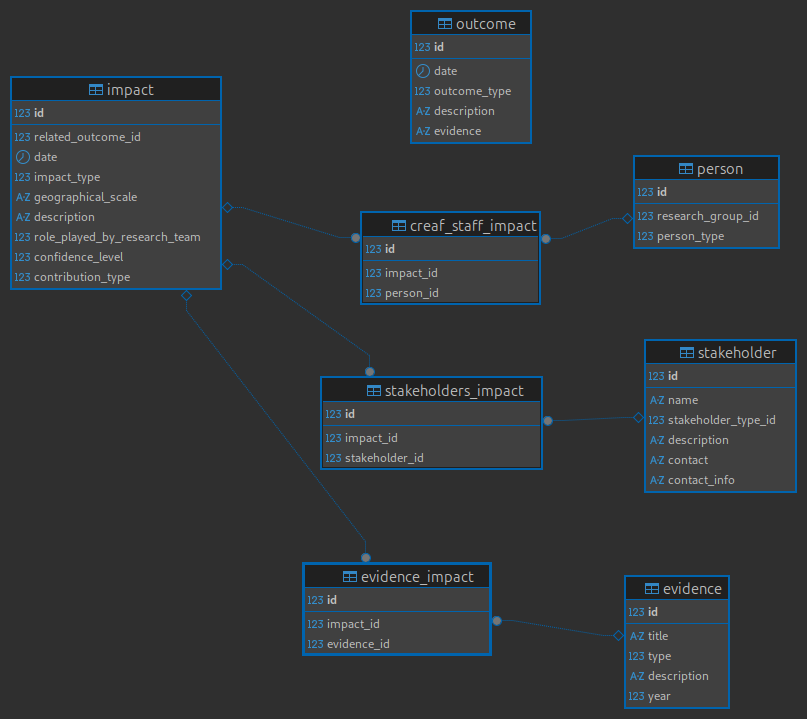
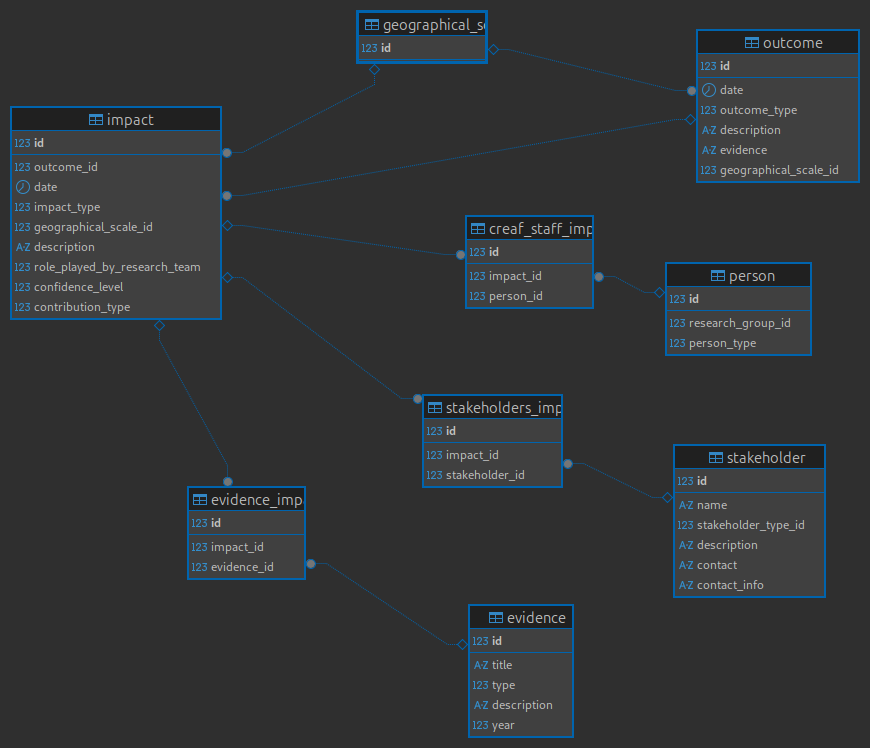
added geographical scale, fixed missing relationship

diff --git a/README.md b/README.md
@@ -149,12 +149,17 @@ ACTIVITY_OUTPUT{
     int output_id
 }
 
+GEOGRAPHICAL_SCALE{
+    int id
+}
+
 OUTCOME{
     int id    
     date date
     int outcome_type
     string description
     string evidence
+    int geographical_scale_id
 }
 
 EVIDENCE{
@@ -183,10 +188,10 @@ RELATED_OUTPUTS_OUTCOME{
 
 IMPACT{
     int id
-    int related_outcome_id
+    int outcome_id
     date date
     int impact_type
-    string geographical_scale
+    int geographical_scale_id
     string description
     int role_played_by_research_team    
     int confidence_level
@@ -222,6 +227,8 @@ EVIDENCE_IMPACT{
 }
 
 STAKEHOLDER_TYPE ||--o{ STAKEHOLDER: "Type of stakeholder"
+GEOGRAPHICAL_SCALE ||--o{ OUTCOME: "Geographical scale of outcome"
+GEOGRAPHICAL_SCALE ||--o{ IMPACT: "Geographical scale of impact"
 RESEARCH_GROUP ||--o{ PERSON : "Belongs to"
 ACTIVITY ||--o{ ACTIVITY_DOCUMENTATION : "Document/media associated with activity"
 MEDIA ||--o{ ACTIVITY_DOCUMENTATION : "The media"
@@ -258,6 +265,7 @@ STAKEHOLDER ||--o{ STAKEHOLDERS_ACTIVITY : "Stakeholder in activity"
 OUTCOME ||--o{ STAKEHOLDERS_OUTCOME : "Outcome stakeholders"
 STAKEHOLDER ||--o{ STAKEHOLDERS_OUTCOME : "Stakeholder in outcome"
 IMPACT ||--o{ STAKEHOLDERS_IMPACT : "Impact stakeholders"
+OUTCOME ||--o{ IMPACT : "Related outcome"
 STAKEHOLDER ||--o{ STAKEHOLDERS_IMPACT : "Stakeholder in impact"
 PERSON ||--o{ CREAF_STAFF_IMPACT : "CREAF staff involved in impact"
 IMPACT ||--o{ CREAF_STAFF_IMPACT : "Impact in which someone from CREAF is involved"
@@ -301,7 +309,7 @@ CREATE TABLE "research_group" (
 CREATE TABLE "project" (
     "id" SERIAL PRIMARY KEY,
     "title" TEXT,
-    "main_researcher_id" INTEGER,
+    "person_id" INTEGER,
     "research_group_id" INTEGER,
     "founding_programme" TEXT,
     "start_date" DATE,
@@ -338,8 +346,8 @@ CREATE TABLE "people_involved_project" (
 
 CREATE TABLE "activity" (
     "id" SERIAL PRIMARY KEY,
-    "related_project_id" INTEGER,
-    "related_person_id" INTEGER,
+    "project_id" INTEGER,
+    "person_id" INTEGER,
     "title" TEXT,
     "date" DATE,
     "description" TEXT,
@@ -366,8 +374,8 @@ CREATE TABLE "creaf_staff_activity" (
 
 CREATE TABLE "output" (
     "id" SERIAL PRIMARY KEY,
-    "related_project_id" INTEGER,
-    "related_person_id" INTEGER,
+    "project_id" INTEGER,
+    "person_id" INTEGER,
     "output_type" INTEGER,
     "title" TEXT,
     "date" DATE,
@@ -402,12 +410,17 @@ CREATE TABLE "activity_output" (
     "output_id" INTEGER
 );
 
+CREATE TABLE "geographical_scale" (
+    "id" SERIAL PRIMARY KEY
+);
+
 CREATE TABLE "outcome" (
     "id" SERIAL PRIMARY KEY,
     "date" DATE,
     "outcome_type" INTEGER,
     "description" TEXT,
-    "evidence" TEXT
+    "evidence" TEXT,
+    "geographical_scale_id" INTEGER
 );
 
 CREATE TABLE "evidence" (
@@ -432,22 +445,22 @@ CREATE TABLE "evidence_outcome" (
 
 CREATE TABLE "related_activities_outcome" (
     "id" SERIAL PRIMARY KEY,
-    "id_outcome" INTEGER,
-    "id_activity" INTEGER
+    "outcome_id" INTEGER,
+    "activity_id" INTEGER
 );
 
 CREATE TABLE "related_outputs_outcome" (
     "id" SERIAL PRIMARY KEY,
-    "id_outcome" INTEGER,
-    "id_output" INTEGER
+    "outcome_id" INTEGER,
+    "output_id" INTEGER
 );
 
 CREATE TABLE "impact" (
     "id" SERIAL PRIMARY KEY,
-    "related_outcome_id" INTEGER,
+    "outcome_id" INTEGER,
     "date" DATE,
     "impact_type" INTEGER,
-    "geographical_scale" TEXT,
+    "geographical_scale_id" INTEGER,
     "description" TEXT,
     "role_played_by_research_team" INTEGER,
     "confidence_level" INTEGER,
@@ -475,6 +488,14 @@ CREATE TABLE "creaf_staff_impact" (
 ALTER TABLE "stakeholder"
     ADD CONSTRAINT "fk_stakeholder_stakeholder_type_id"
     FOREIGN KEY ("stakeholder_type_id") REFERENCES "stakeholder_type"("id");
+
+ALTER TABLE "outcome"
+    ADD CONSTRAINT "fk_outcome_geographical_scale_id"
+    FOREIGN KEY ("geographical_scale_id") REFERENCES "geographical_scale"("id");
+
+ALTER TABLE "impact"
+    ADD CONSTRAINT "fk_impact_geographical_scale_id"
+    FOREIGN KEY ("geographical_scale_id") REFERENCES "geographical_scale"("id");
 
 ALTER TABLE "person"
     ADD CONSTRAINT "fk_person_research_group_id"
@@ -568,29 +589,29 @@ ALTER TABLE "creaf_staff_activity"
     ADD CONSTRAINT "fk_creaf_staff_activity_activity_id"
     FOREIGN KEY ("activity_id") REFERENCES "activity"("id");
 
-ALTER TABLE "project"
-    ADD CONSTRAINT "fk_project_output_id"
-    FOREIGN KEY ("output_id") REFERENCES "output"("id");
-
-ALTER TABLE "person"
-    ADD CONSTRAINT "fk_person_output_id"
-    FOREIGN KEY ("output_id") REFERENCES "output"("id");
-
-ALTER TABLE "outcome"
-    ADD CONSTRAINT "fk_outcome_related_activities_outcome_id"
-    FOREIGN KEY ("related_activities_outcome_id") REFERENCES "related_activities_outcome"("id");
-
-ALTER TABLE "activity"
-    ADD CONSTRAINT "fk_activity_related_activities_outcome_id"
-    FOREIGN KEY ("related_activities_outcome_id") REFERENCES "related_activities_outcome"("id");
-
-ALTER TABLE "outcome"
-    ADD CONSTRAINT "fk_outcome_related_outputs_outcome_id"
-    FOREIGN KEY ("related_outputs_outcome_id") REFERENCES "related_outputs_outcome"("id");
+ALTER TABLE "output"
+    ADD CONSTRAINT "fk_output_project_id"
+    FOREIGN KEY ("project_id") REFERENCES "project"("id");
 
 ALTER TABLE "output"
-    ADD CONSTRAINT "fk_output_related_outputs_outcome_id"
-    FOREIGN KEY ("related_outputs_outcome_id") REFERENCES "related_outputs_outcome"("id");
+    ADD CONSTRAINT "fk_output_person_id"
+    FOREIGN KEY ("person_id") REFERENCES "person"("id");
+
+ALTER TABLE "related_activities_outcome"
+    ADD CONSTRAINT "fk_related_activities_outcome_outcome_id"
+    FOREIGN KEY ("outcome_id") REFERENCES "outcome"("id");
+
+ALTER TABLE "related_activities_outcome"
+    ADD CONSTRAINT "fk_related_activities_outcome_activity_id"
+    FOREIGN KEY ("activity_id") REFERENCES "activity"("id");
+
+ALTER TABLE "related_outputs_outcome"
+    ADD CONSTRAINT "fk_related_outputs_outcome_outcome_id"
+    FOREIGN KEY ("outcome_id") REFERENCES "outcome"("id");
+
+ALTER TABLE "related_outputs_outcome"
+    ADD CONSTRAINT "fk_related_outputs_outcome_output_id"
+    FOREIGN KEY ("output_id") REFERENCES "output"("id");
 
 ALTER TABLE "evidence_outcome"
     ADD CONSTRAINT "fk_evidence_outcome_outcome_id"
@@ -616,9 +637,13 @@ ALTER TABLE "stakeholders_outcome"
     ADD CONSTRAINT "fk_stakeholders_outcome_stakeholder_id"
     FOREIGN KEY ("stakeholder_id") REFERENCES "stakeholder"("id");
 
-ALTER TABLE "outcome"
-    ADD CONSTRAINT "fk_outcome_stakeholders_impact_id"
-    FOREIGN KEY ("stakeholders_impact_id") REFERENCES "stakeholders_impact"("id");
+ALTER TABLE "stakeholders_impact"
+    ADD CONSTRAINT "fk_stakeholders_impact_impact_id"
+    FOREIGN KEY ("impact_id") REFERENCES "impact"("id");
+
+ALTER TABLE "impact"
+    ADD CONSTRAINT "fk_impact_outcome_id"
+    FOREIGN KEY ("outcome_id") REFERENCES "outcome"("id");
 
 ALTER TABLE "stakeholders_impact"
     ADD CONSTRAINT "fk_stakeholders_impact_stakeholder_id"
